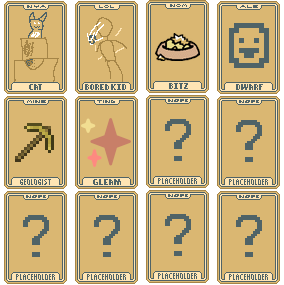
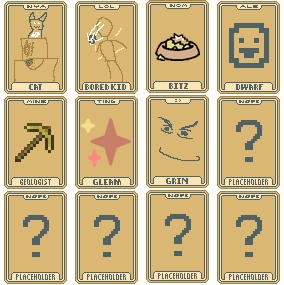
face, grin, abacus. can you believe i found a crash bug in smods doing this

Changed region(s): [[0.5634, 0.393, 0.7042, 0.5895], [0.5352, 0.6175, 0.7042, 0.6456], [0.5915, 0.3368, 0.6761, 0.3649]]

diff --git a/README.md b/README.md
@@ -88,7 +88,8 @@ Technically you can do whatever you want here, but here's the mods I like for th
 - [Item Remover](https://github.com/art-muncher/Item-Remover) lets you disable specific items from the Collection, if they're OP or bugged or you just don't like them. ([Banner](https://github.com/SylviBlossom/Banner) does the same thing and is newer, switch if one of them isn't doing what you want it to.)
 
 ## Adding cross-mod interactions
-- 3s: If you want things to interact with the 3s mechanic, use `Card:is_3()` for proper detection. It returns the number of times the card counts as a 3, or `false` if it doesn't, because `0` is truthy in Lua...
+- 3 suit: If you want things to interact with the 3s mechanic, use `Card:is_3()` for proper detection. It returns the number of times the card counts as a 3, or `false` if it doesn't, because `0` is truthy in Lua...
+- Face rank: If your modded suit includes Face art, give it `minty_facerank = true` to stop it from using the fallback art. Uh... I don't know how to properly implement cross-mod suit-rank combo art. I'll ask Kirbio UnStable, maybe. (Where by "ask" I mean "look in his published code".)
 - Legendary Kitys: Give your kittycats `pools = {["kity"] = true}` to enable them to be summoned by The Wand and The Bitz and to grant chips with Cat Cafe.
 - Gym Buddy boosts: Give your enhancements a `config.extra.gymboost` of `"chips"`, `"xchips"`, `"mult"`, `"xmult"`, `"cash"`, `"hchips"`, `"hxchips"`, `"hmult"`, `"hxmult"`, `"hcash"` or `"none"` to have them grant the corresponding boost when scored with cards not of that enhancement. (If you don't, one will be chosen randomly each time. Which maybe you prefer!) 
 - The Silliest, Littlest Deck: Add `pools = {["MintysSillyMod"] = true}` to have your cross-mod content appear with increased frequency when this deck is in play.
